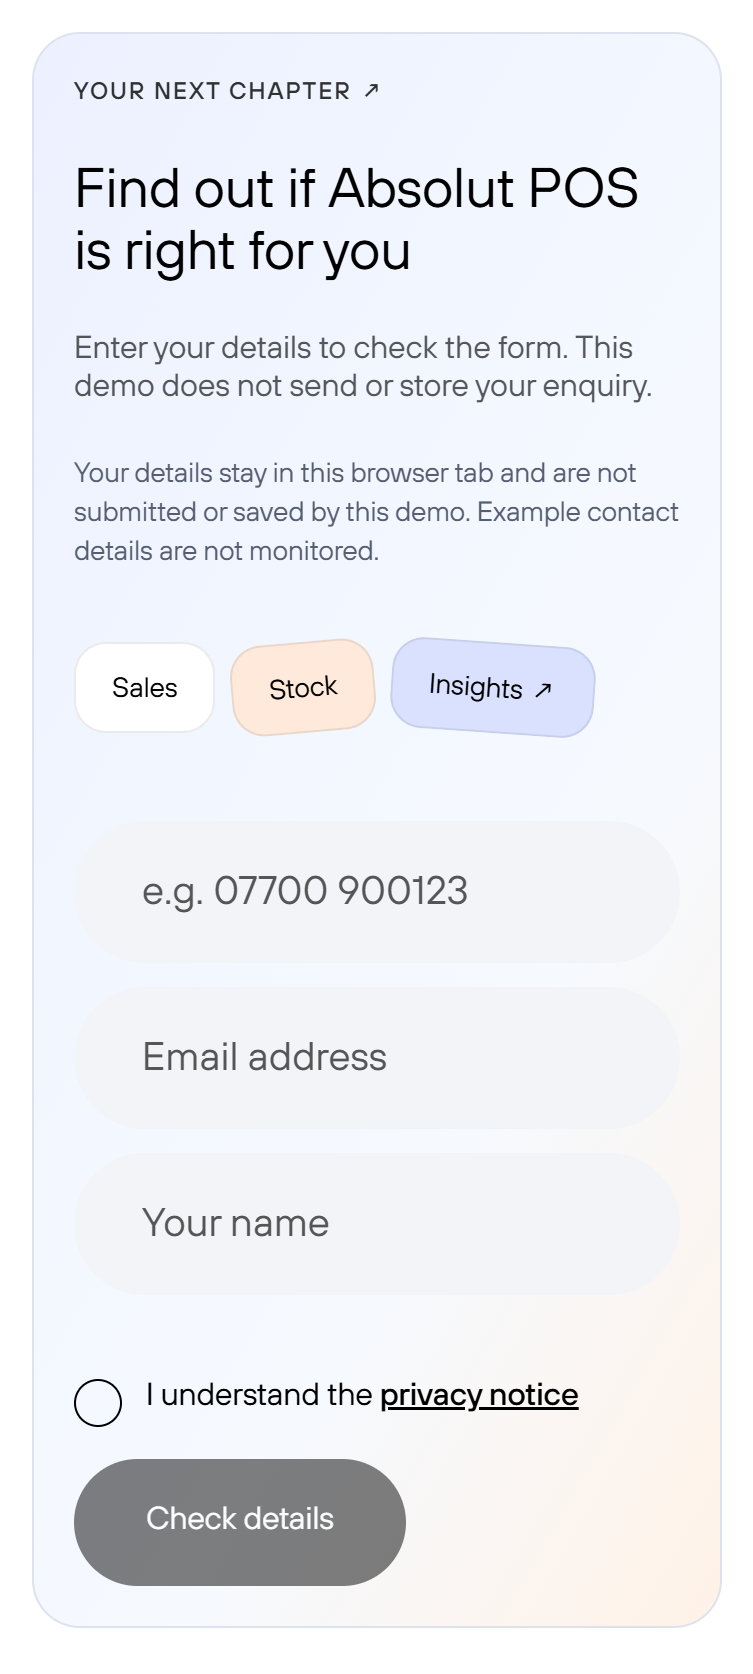
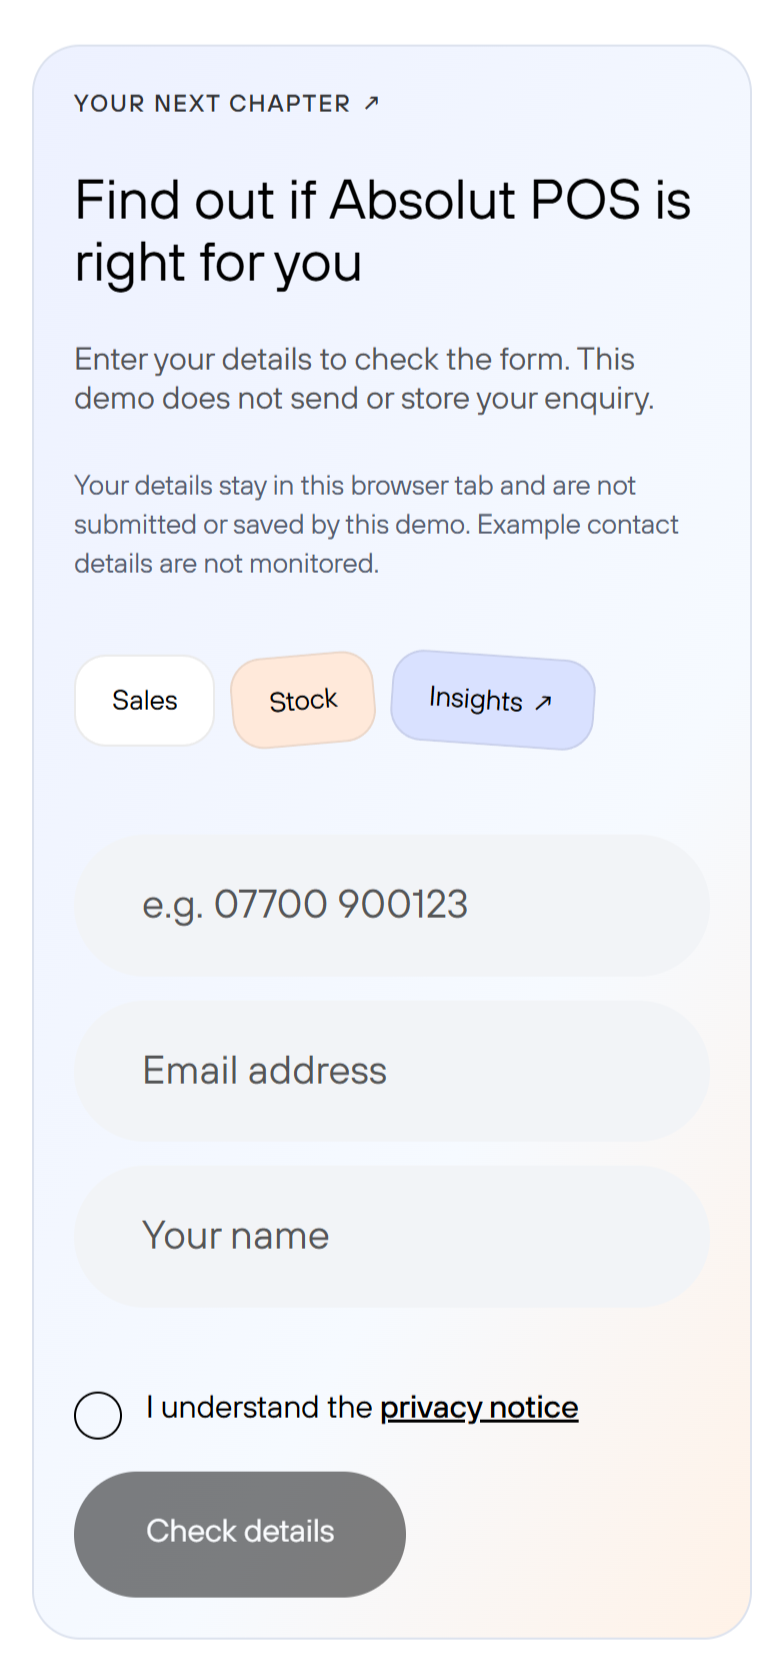
README images

diff --git a/partials/footer.html b/partials/footer.html
@@ -102,8 +102,11 @@
           <div class="footer__credits-item">
             Development by
             <span>
-              <a href="https://www.upwork.com/freelancers/ivankatenev?mp_source=share" target="_blank"
+              <a
+                href="https://www.upwork.com/freelancers/ivankatenev?mp_source=share"
+                target="_blank"
                 >Ivan Katenev</a
+              >
             </span>
           </div>
         </div>

diff --git a/README.md b/README.md
@@ -9,20 +9,20 @@ A responsive marketing website for a café and retail point-of-sale product, imp
 [![Absolut POS — Desktop Preview](docs/screenshots/home-desktop.webp)](https://ikatenev.github.io/Digitalizing-for-Cafes/)
 
 <p align="center">
-  <img src="docs/screenshots/home-mobile.webp" alt="Responsive mobile homepage" width="280">
-  <img src="docs/screenshots/form-mobile.webp" alt="Interactive feedback form" width="280">
-  <img src="docs/screenshots/plans-mobile.webp" alt="Interactive mobile pricing comparison" width="280">
+  <img src="docs/screenshots/home-mobile.webp" alt="Responsive mobile homepage" width="240">
+  <img src="docs/screenshots/plans-mobile.webp" alt="Interactive mobile pricing comparison" width="240">
+  <img src="docs/screenshots/form-mobile.webp" alt="Interactive feedback form" width="240">
 </p>
 
 ## Overview
 
 The project covers three connected pages:
 
-| Page | What it shows |
-| --- | --- |
-| **Overview** | Hero section, product benefits, business categories and calls to action. |
-| **Pricing & hardware** | Product-related content, hardware and pricing sections. |
-| **Compare plans** | Feature comparisons and interactive plan selection on smaller screens. |
+| Page                   | What it shows                                                            |
+| ---------------------- | ------------------------------------------------------------------------ |
+| **Overview**           | Hero section, product benefits, business categories and calls to action. |
+| **Pricing & hardware** | Product-related content, hardware and pricing sections.                  |
+| **Compare plans**      | Feature comparisons and interactive plan selection on smaller screens.   |
 
 ## Frontend features
 
